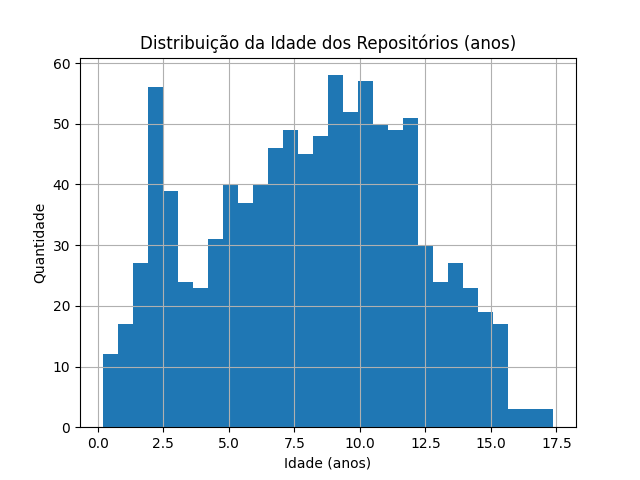
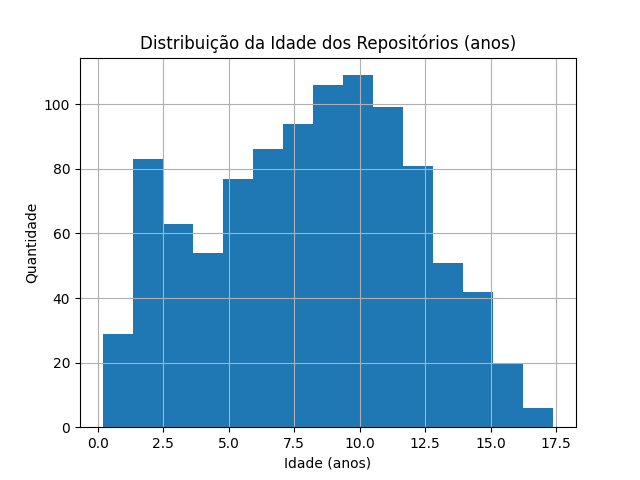
fix: changes to graphs

diff --git a/lab-01/code/analise.py b/lab-01/code/analise.py
@@ -26,6 +26,7 @@ def analisar_repositorios(data_path: str):
 
     # Métricas adicionais
     df["idade_anos"] = (datetime.now() - df["createdAt"]).dt.days / 365
+    df["idade_anos_round"] = df["idade_anos"].round(0)
     df["dias_desde_update"] = (datetime.now() - df["updatedAt"]).dt.days
     df["ratio_closed_issues"] = df["closedIssues"] / df["totalIssues"].replace(0, pd.NA)
 
@@ -35,7 +36,7 @@ def analisar_repositorios(data_path: str):
     print_and_write(metrics_path, "===== RQ01 - Idade dos repositorios (anos) =====\n")
     print_and_write(metrics_path, "Mediana: {}\n".format(round(df["idade_anos"].median(), 2)))
     print_and_write(metrics_path, "Media: {}\n".format(round(df["idade_anos"].mean(), 2)))
-    print_and_write(metrics_path, "Moda: {}\n".format(round(df["idade_anos"].mode()[0], 2)))
+    print_and_write(metrics_path, "Moda: {}\n".format(round(df["idade_anos_round"].mode()[0], 2)))
 
 
     print_and_write(metrics_path, "===== RQ02 - Pull Requests Aceitos =====\n")
@@ -66,7 +67,7 @@ def analisar_repositorios(data_path: str):
     # =======================
     # Idade dos repositórios
 
-    df["idade_anos"].hist(bins=30)
+    df["idade_anos"].hist(bins=15)
     plt.title("Distribuição da Idade dos Repositórios (anos)")
     plt.xlabel("Idade (anos)")
     plt.ylabel("Quantidade")
@@ -75,14 +76,14 @@ def analisar_repositorios(data_path: str):
 
     # Top linguagens
     df["primaryLanguage"].value_counts().head(10).plot(kind="bar", figsize=(8,8))
-    plt.title("Top 10 Linguagens Mais Usadas")
+    plt.title("Top 10 Linguagens Mais Populares")
     plt.ylabel("Quantidade")
     plt.xlabel("Linguagem")
     plt.savefig(os.path.join(charts_dir, f"linguagens_{file_stem}.png"))
     plt.close()
 
     # Percentual de issues fechadas
-    df["ratio_closed_issues"].dropna().hist(bins=30)
+    df["ratio_closed_issues"].dropna().hist(bins=15)
     plt.title("Distribuição da Razão de Issues Fechadas")
     plt.xlabel("Proporção")
     plt.ylabel("Quantidade")
